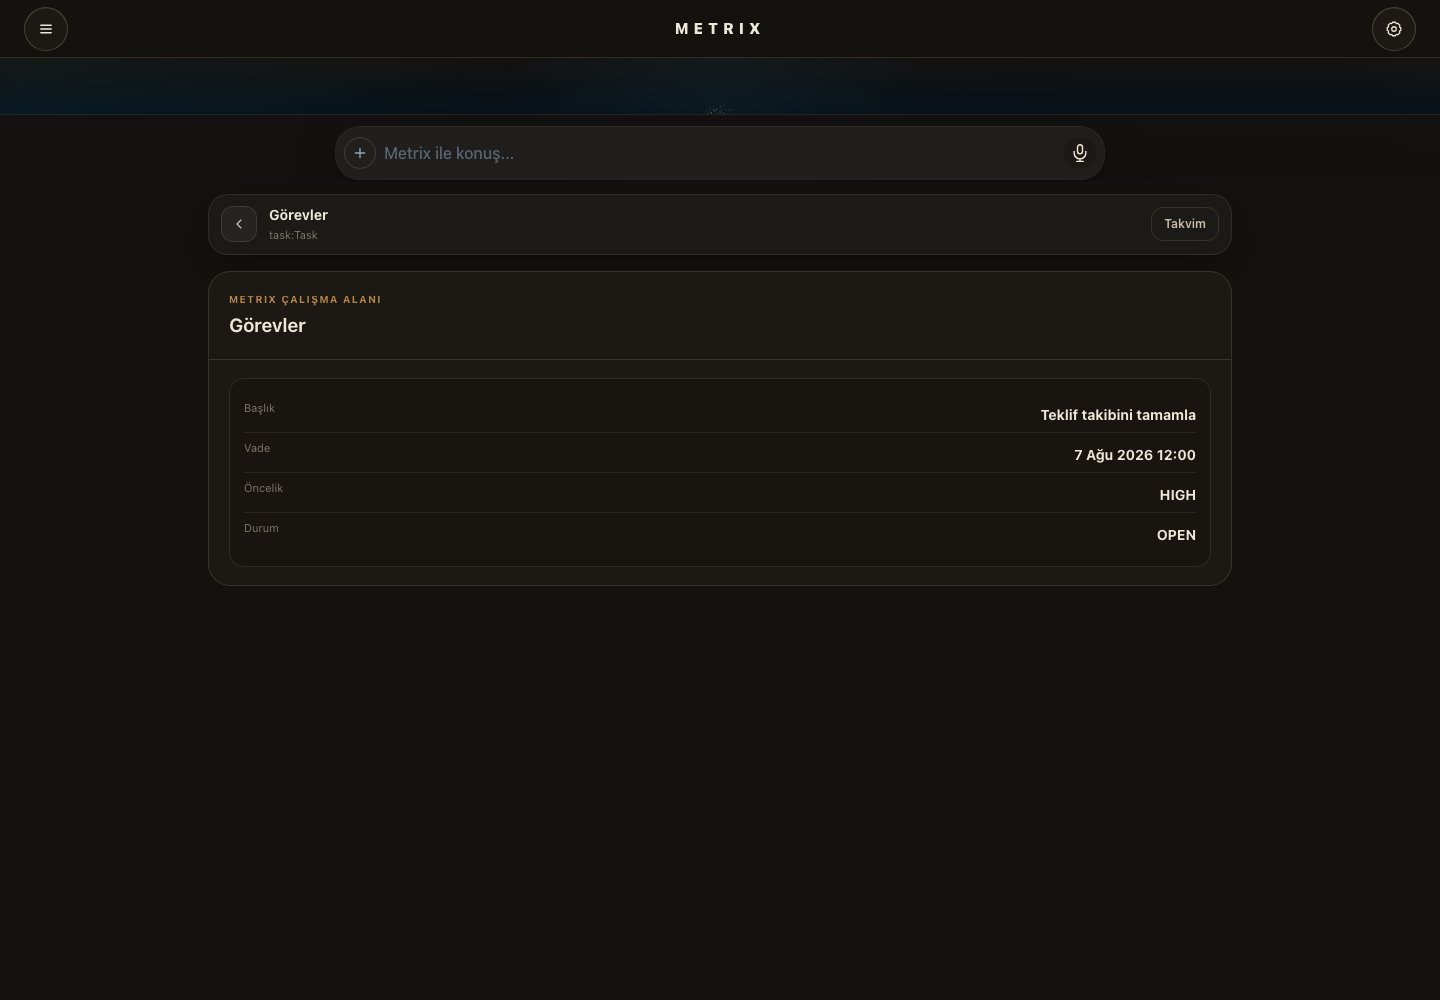
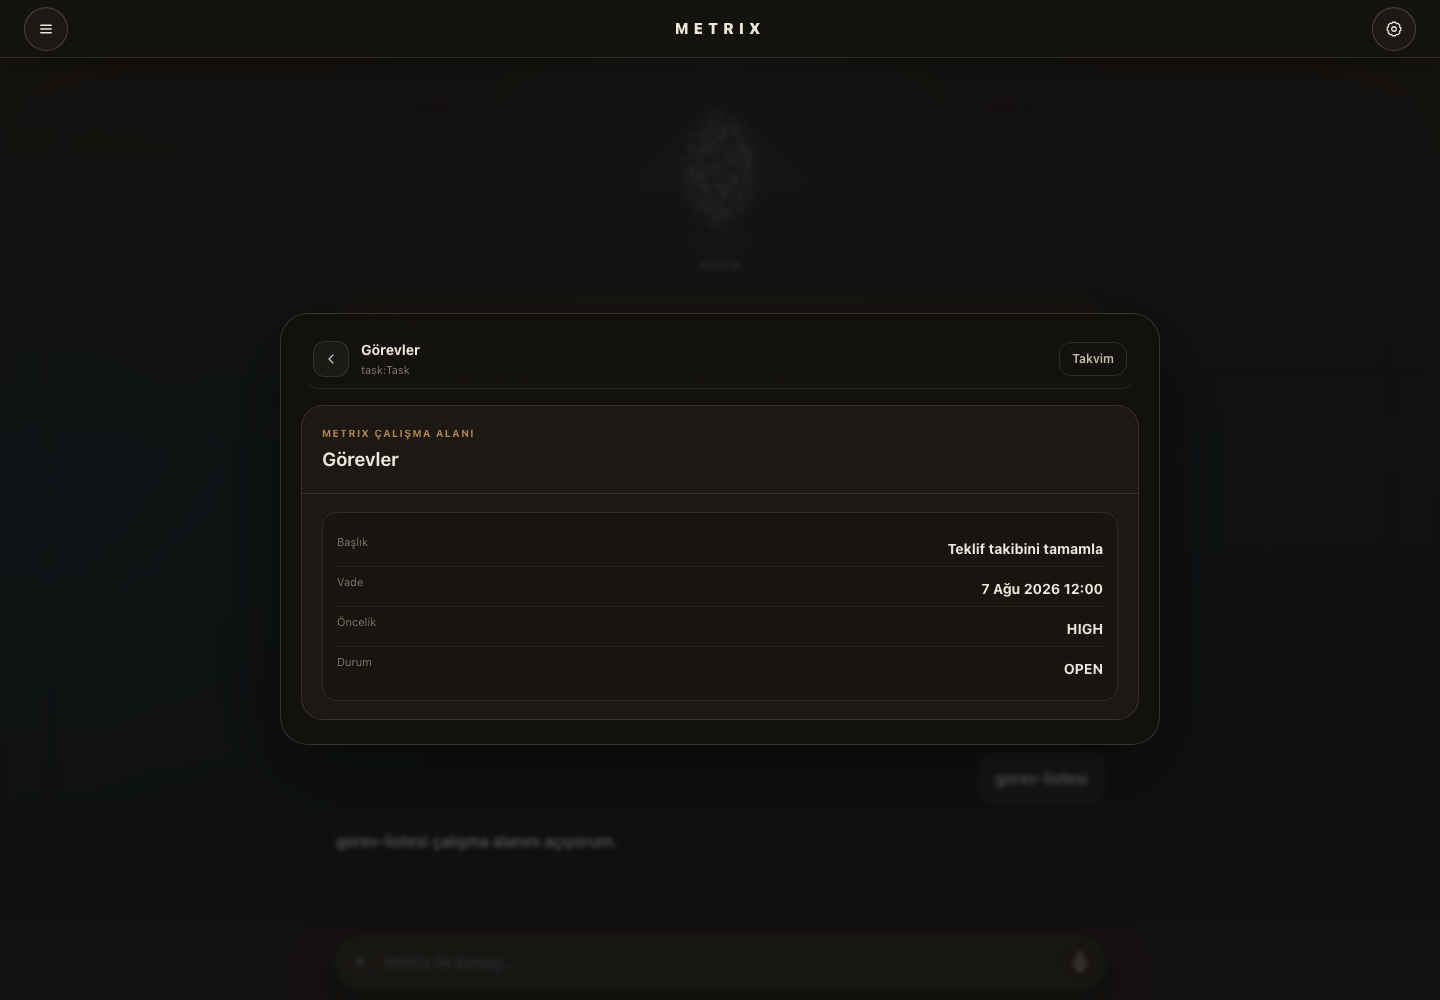
Center living workspaces in a framed card

diff --git a/src/components/living-workspace/LivingWorkspaceHost.tsx b/src/components/living-workspace/LivingWorkspaceHost.tsx
@@ -57,19 +57,21 @@ export function LivingWorkspaceHost({ conversation }: { conversation?: React.Rea
     if (completed) emitBusinessNavigationTelemetry("BusinessNavigationClient", { event: "workspace_presented", correlationId: directive.correlationId, commandId: navigationCommand.commandId, generation: navigationCommand.generation, routeType: businessNavigationRouteType(navigationCommand.route), status: "VISIBLE_READY", failureCode: null });
   }, [directive, navigationCommand, surfaceVisible]);
   return <div className="relative h-full min-h-0 overflow-hidden">
-    {conversation ? <section className={`min-h-0 overflow-hidden transition-[height,transform] duration-[380ms] ease-[cubic-bezier(.2,.8,.2,1)] motion-reduce:transition-none ${expanded ? "absolute inset-x-0 top-0 z-40 h-[124px]" : "h-full"}`}>
+    {conversation ? <section className={`min-h-0 overflow-hidden transition-[height,transform,opacity,filter] duration-[380ms] ease-[cubic-bezier(.2,.8,.2,1)] motion-reduce:transition-none ${expanded ? "absolute inset-x-0 top-0 z-40 h-[124px] md:inset-0 md:z-20 md:h-full md:opacity-55 md:blur-[1px]" : "h-full"}`}>
       <WorkspacePresentationProvider value={expanded}>{conversation}</WorkspacePresentationProvider>
     </section> : null}
-    {directive ? <section aria-label="Çalışma Alanı" aria-hidden={!surfaceVisible} className={`absolute inset-0 z-30 flex min-h-0 flex-col overflow-hidden bg-[#14120F] transition-[opacity,transform] duration-[380ms] ease-[cubic-bezier(.2,.8,.2,1)] motion-reduce:transition-none ${surfaceVisible ? "pointer-events-auto scale-100 opacity-100" : "pointer-events-none scale-[.975] opacity-0"}`} data-executive-target="living-workspace">
-      <div className={`shrink-0 px-3 sm:px-5 ${conversation ? "pt-[136px]" : "pt-3 sm:pt-4"}`}>
-        <div className="mx-auto flex max-w-5xl items-center gap-3 rounded-[20px] border border-white/[.08] bg-white/[.035] px-3 py-2.5 shadow-[0_18px_48px_rgba(0,0,0,.28)] backdrop-blur-xl">
-          <button aria-label="Sohbete dön" className="grid h-9 w-9 shrink-0 place-items-center rounded-xl border border-white/[.1] bg-white/[.04] text-[#c9d1d6]" onClick={() => setSurfaceOpen(false)} type="button"><ExecutiveIcon name="back" className="h-4 w-4"/></button>
-          <div className="min-w-0 flex-1"><h1 className="truncate text-sm font-bold text-[#EDE7D9]">{directive.title}</h1><p className="mt-0.5 truncate text-[11px] text-[#7C7466]">{workspaceIdentity(directive)}</p></div>
-          <button aria-label="Günlük iş programını aç" className="rounded-xl border border-[rgba(228,214,182,.14)] px-3 py-2 text-xs font-semibold text-[#C9BFA8]" onClick={() => livingWorkspaceRuntime.publish(createCalendarWorkspaceDirective({ source: "system", correlationId: crypto.randomUUID() }))} type="button">Takvim</button>
+    {directive ? <section aria-label="Çalışma Alanı" aria-hidden={!surfaceVisible} className={`absolute inset-0 z-30 flex min-h-0 flex-col overflow-hidden bg-[#14120F] transition-opacity duration-[380ms] ease-[cubic-bezier(.2,.8,.2,1)] motion-reduce:transition-none md:items-center md:justify-center md:bg-[#14120F]/35 md:px-12 md:py-8 md:backdrop-blur-[2px] ${surfaceVisible ? "pointer-events-auto opacity-100" : "pointer-events-none opacity-0"}`} data-executive-target="living-workspace">
+      <div className="flex min-h-0 w-full flex-1 flex-col overflow-hidden md:max-h-[min(78vh,760px)] md:max-w-[880px] md:flex-none md:rounded-[28px] md:border md:border-[rgba(228,214,182,.18)] md:bg-[#14120F]/96 md:shadow-[0_28px_90px_rgba(0,0,0,.42)] md:backdrop-blur-xl" data-workspace-frame="centered">
+        <div className={`shrink-0 px-3 sm:px-5 ${conversation ? "pt-[136px] md:pt-4" : "pt-3 sm:pt-4"}`}>
+          <div className="mx-auto flex max-w-5xl items-center gap-3 rounded-[20px] border border-white/[.08] bg-white/[.035] px-3 py-2.5 md:border-x-0 md:border-t-0 md:bg-transparent md:shadow-none md:backdrop-blur-none">
+            <button aria-label="Sohbete dön" className="grid h-9 w-9 shrink-0 place-items-center rounded-xl border border-white/[.1] bg-white/[.04] text-[#c9d1d6]" onClick={() => setSurfaceOpen(false)} type="button"><ExecutiveIcon name="back" className="h-4 w-4"/></button>
+            <div className="min-w-0 flex-1"><h1 className="truncate text-sm font-bold text-[#EDE7D9]">{directive.title}</h1><p className="mt-0.5 truncate text-[11px] text-[#7C7466]">{workspaceIdentity(directive)}</p></div>
+            <button aria-label="Günlük iş programını aç" className="rounded-xl border border-[rgba(228,214,182,.14)] px-3 py-2 text-xs font-semibold text-[#C9BFA8]" onClick={() => livingWorkspaceRuntime.publish(createCalendarWorkspaceDirective({ source: "system", correlationId: crypto.randomUUID() }))} type="button">Takvim</button>
+          </div>
         </div>
-      </div>
-      <div className="min-h-0 flex-1 overflow-y-auto overscroll-contain px-3 pb-[calc(24px+env(safe-area-inset-bottom))] pt-3 sm:px-5 sm:pt-4">
-        <DirectiveSurface commandId={navigationCommand?.correlationId === directive.correlationId ? navigationCommand.commandId : undefined} directive={directive} generation={navigationCommand?.correlationId === directive.correlationId ? navigationCommand.generation : undefined} onFailure={markSurfaceFailure} onReady={markSurfaceReady}/>
+        <div className="min-h-0 flex-1 overflow-y-auto overscroll-contain px-3 pb-[calc(24px+env(safe-area-inset-bottom))] pt-3 sm:px-5 sm:pt-4">
+          <DirectiveSurface commandId={navigationCommand?.correlationId === directive.correlationId ? navigationCommand.commandId : undefined} directive={directive} generation={navigationCommand?.correlationId === directive.correlationId ? navigationCommand.generation : undefined} onFailure={markSurfaceFailure} onReady={markSurfaceReady}/>
+        </div>
       </div>
     </section> : null}
     {conversation && directive && ready && !surfaceOpen ? <button className="fixed bottom-[calc(16px+env(safe-area-inset-bottom))] right-3 z-40 rounded-full border border-[#C9BFA8]/25 bg-[#1C1914]/96 px-4 py-3 text-xs font-semibold text-[#C9BFA8] shadow-xl" onClick={() => setSurfaceOpen(true)} type="button">{directive.title} çalışma alanını aç</button> : null}

diff --git a/e2e/qa-visual-consistency.e2e.ts b/e2e/qa-visual-consistency.e2e.ts
@@ -30,6 +30,14 @@ async function openSurface(page: Page, route: string, authority: string, name: s
   await page.getByPlaceholder("Metrix ile konuş...").fill(name);
   await page.getByRole("button", { name: "Gönder" }).click();
   await expect(page.getByText(expectedText, { exact: false }).first()).toBeVisible();
+  const frame = page.locator('[data-workspace-frame="centered"]');
+  await expect(frame).toBeVisible();
+  const bounds = await frame.boundingBox();
+  expect(bounds).not.toBeNull();
+  expect(bounds!.x).toBeGreaterThanOrEqual(200);
+  expect(bounds!.y).toBeGreaterThanOrEqual(100);
+  expect(bounds!.x + bounds!.width).toBeLessThanOrEqual(1240);
+  expect(bounds!.y + bounds!.height).toBeLessThanOrEqual(920);
   await page.waitForTimeout(500);
   await page.screenshot({ path: `qa-screenshots/${name}.png`, fullPage: true });
   await page.getByRole("button", { name: "Sohbete dön" }).click();

diff --git a/src/components/living-workspace/__tests__/shell.contract.test.ts b/src/components/living-workspace/__tests__/shell.contract.test.ts
@@ -95,7 +95,12 @@ describe("Executive App Shell contracts", () => {
     expect(host).not.toContain("lg:grid-cols-");
     expect(host).not.toContain("border-r");
     expect(host).toContain("duration-[380ms]");
-    expect(host).toContain("scale-[.975]");
+    expect(host).toContain("md:items-center");
+    expect(host).toContain("md:justify-center");
+    expect(host).toContain("md:max-w-[880px]");
+    expect(host).toContain("md:max-h-[min(78vh,760px)]");
+    expect(host).toContain("md:rounded-[28px]");
+    expect(host).toContain("md:opacity-55");
     expect(host).toContain("motion-reduce:transition-none");
     expect(host).toContain('aria-label="Sohbete dön"');
   });
